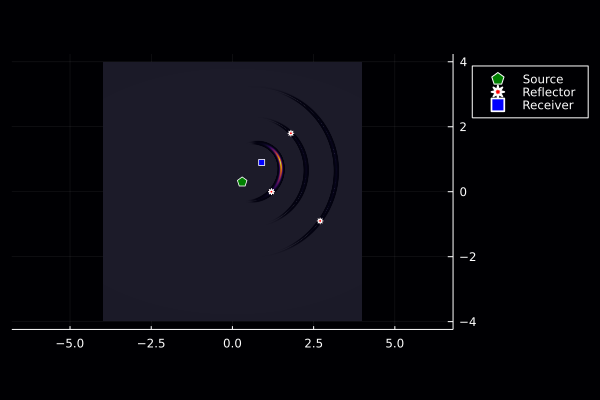
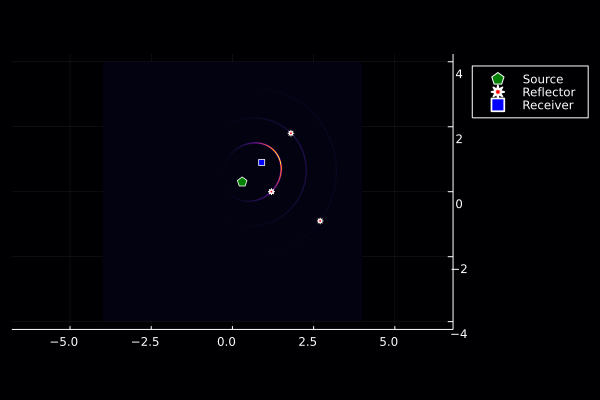
added Scenario C dirc simulation

diff --git a/docs/src/directionalLTI/dirLTIsource.md b/docs/src/directionalLTI/dirLTIsource.md
@@ -285,3 +285,36 @@ t = collect(0.0:1.0e-10:25.5e-9)
 plot( t, z(t), xlab="time (sec)", ylab="z(t)", legend=:false)
 ```
 ![](https://raw.githubusercontent.com/NMSU-ISA/LTVsystems/main/docs/src/assets/scenarioC_LTIDirsignal.png)
+
+### Inverse Modeling
+
+Given the scenario C assumptions, we obtained the received signal, $z(t)$. Now we can estimate the reflector function by considering the transmitted signal $p(t)=δ(t)$ as follows
+
+$\hat{f}(\bm{\xi}) = \dfrac{z\left(\frac{\|\mathbf{p}_\mathrm{r}-
+\bm{\xi}\|+\|\bm{\xi}-\mathbf{p}_\mathrm{s}\|}
+{\mathrm{c}}  \right)}{\mathrm{A}\big(\frac{\|\bm{\xi}-\mathbf{p}_\mathrm{s}\|}{\mathrm{c}}\big)    
+\mathrm{A}\big(\frac{\|\mathbf{p}_\mathrm{r}-\bm{\xi}\|}{\mathrm{c}}\big)}
+\mathrm{D}_\mathrm{s}\left(\bm{\xi};\,{\mathbf{p}_\mathrm{s},\mathbf{b}_\mathrm{s}}\right)
+\mathrm{D}_\mathrm{r}\left(\bm{\xi};\,{\mathbf{p}_\mathrm{r},\mathbf{b}_\mathrm{r}}\right).$
+
+```julia
+using LTVsystems
+using Plots
+𝐩ₛ =  [0.3, 0.3]
+𝐩ᵣ =  [0.9, 0.9]
+p(t) = δn(t,1.0e-10)
+𝐛 = [1.0,0.0]
+G(θ) = 𝒩ᵤ(θ, μ=0.0, σ=π/2)
+q = LTIsourceDTI(𝐩ₛ,p,𝐛,G)
+α₁ = 0.7; 𝛏₁ = [1.2,0.0]
+α₂ = 0.6; 𝛏₂ = [1.8,1.8]
+α₃ = 0.5; 𝛏₃ = [2.7,-0.9]
+r = pointReflector([𝛏₁,𝛏₂,𝛏₃],[α₁,α₂,α₃],[q])
+z = LTIreceiverDTI(r,𝐩ᵣ,𝐛,G)
+Dᵣ(ξ::Vector{Float64}) = G(angleBetween(𝐛, ξ.-𝐩ᵣ))
+Dₛ(ξ::Vector{Float64}) = G(angleBetween(𝐛, ξ.-𝐩ₛ))
+f(ξ::Vector{Float64}) = z((norm(ξ-𝐩ₛ) .+ norm(𝐩ᵣ-ξ))./c).*Dₛ(ξ::Vector{Float64}).*Dᵣ(ξ::Vector{Float64})/
+                        A(norm(ξ-𝐩ₛ)/c).*A(norm(𝐩ᵣ-ξ)/c)
+inverse2Dplot([q],r,[z],f)
+```
+![](https://raw.githubusercontent.com/NMSU-ISA/LTVsystems/main/docs/src/assets/scenarioC_DirTIsimulation.png)
